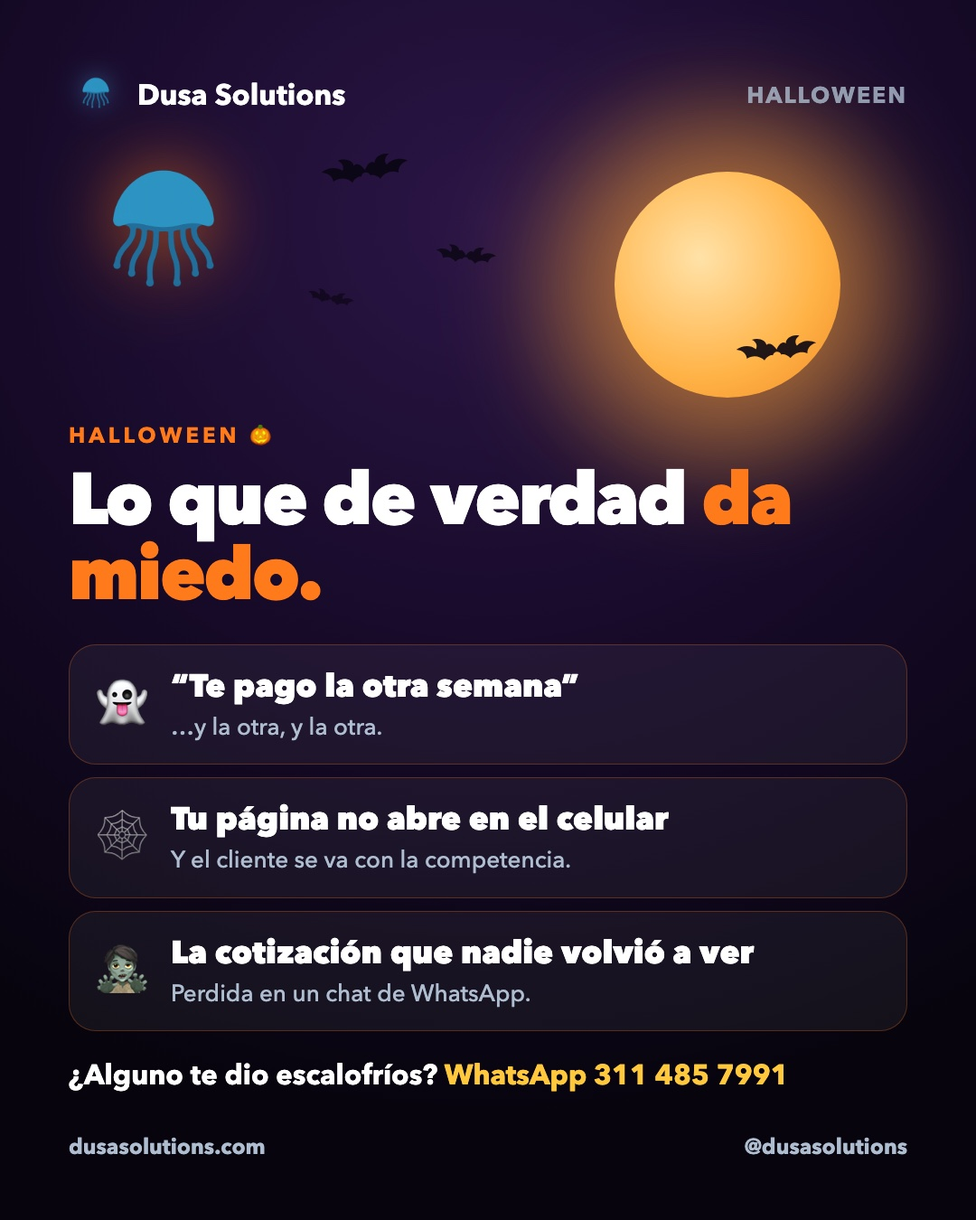
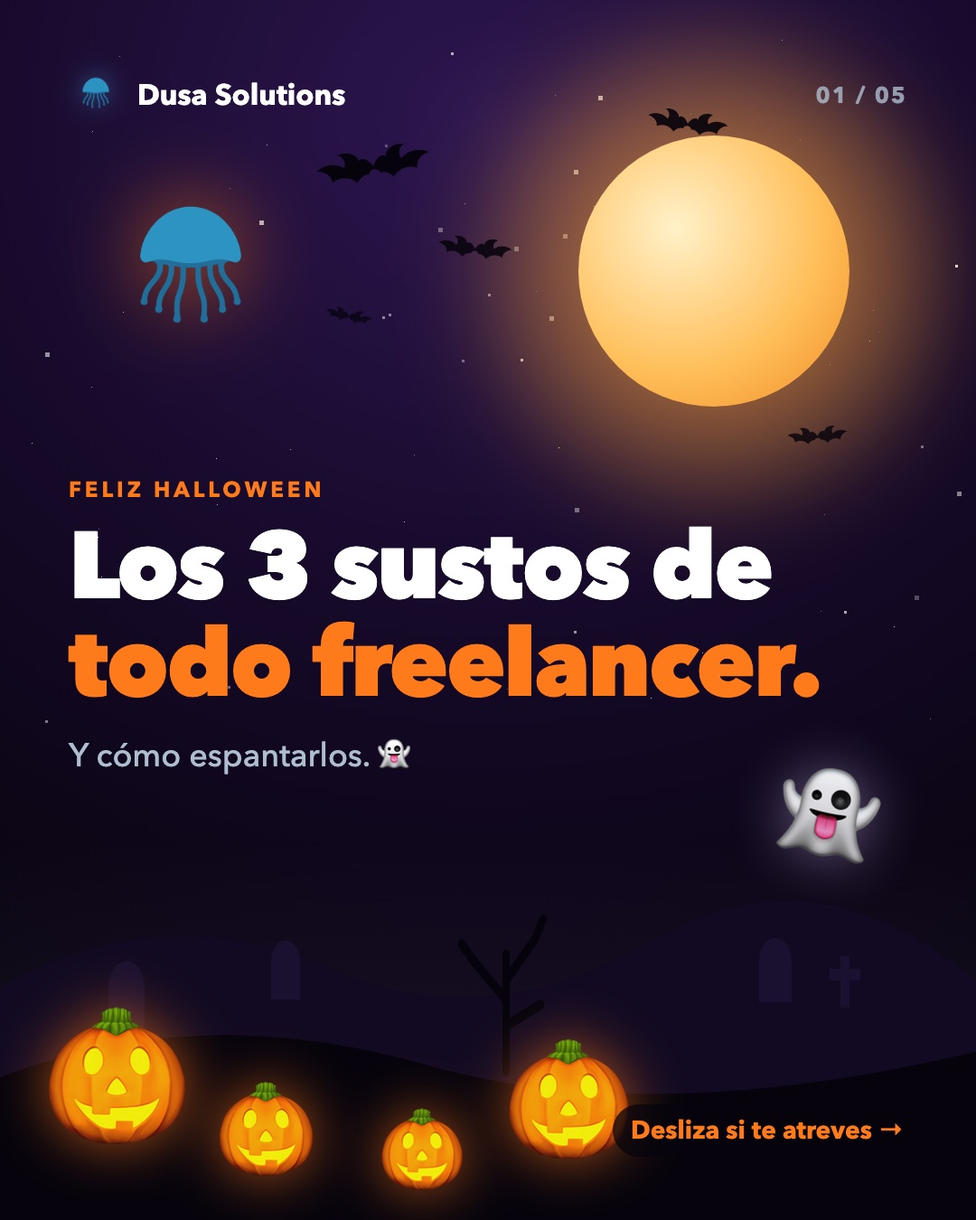
panel: Halloween ahora es carrusel de 5 (los 3 sustos de todo freelancer)

diff --git a/index.html b/index.html
@@ -250,7 +250,7 @@ footer{margin-top:28px;text-align:center;font-size:12px;color:var(--faint)}
 <div class="toast" id="toast" role="status" aria-live="polite"></div>
 
 <script>
-const APP = {"posts": [{"id": "anuncio", "group": "pausa", "date": null, "title": "Algo cambió en Dusa (anuncio)", "pillar": "Marca", "status": "listo", "caption": "Algo cambió en Dusa. 🔵\n\nNacimos el 13 de abril de 2025 construyendo apps para otros negocios, y nos encanta. Pero siempre tuvimos ideas propias… así que empezamos a construirlas.\n\nYa en el mundo:\n🚻 BathMap — el mapa de baños que le faltaba a México (bathmap.online)\n🧩 Blokku — nuestro juego de puzzle, ya en Google Play\n\nMuy pronto:\n🧾 Fakturo — cotiza, factura y cobra\n💸 TuLana — tu lana, organizada sola\n💪 Coachly — tu coach de entrenamiento con IA\n\nDesde hoy Dusa es un estudio de apps hechas para México. Hacemos las nuestras… y seguimos haciendo la tuya.\n\n¿Tienes una idea? Escríbenos por WhatsApp 👉 311 485 7991\n\nSíguenos para ver cómo las construimos. 🪼\n\n#HechoEnMéxico #Apps #Startups #DesarrolloDeApps #Guadalajara #GDL #BuildInPublic", "note": "Publícalo el día que Blokku aparezca en Google Play. Ese mismo día: bio nueva (PERFIL/BIO.md), portada de FB y archiva los posts viejos de agencia.", "slides": [{"full": "img/anuncio/1.jpg?v=8a9ebbe0", "thumb": "img/anuncio/t1.jpg?v=bb9941f2"}, {"full": "img/anuncio/2.jpg?v=7ba1bb19", "thumb": "img/anuncio/t2.jpg?v=8ef2c3f8"}, {"full": "img/anuncio/3.jpg?v=8657e8e2", "thumb": "img/anuncio/t3.jpg?v=9787a160"}, {"full": "img/anuncio/4.jpg?v=aaf8ee6f", "thumb": "img/anuncio/t4.jpg?v=48d3c8ba"}, {"full": "img/anuncio/5.jpg?v=892c2be6", "thumb": "img/anuncio/t5.jpg?v=96ed7650"}, {"full": "img/anuncio/6.jpg?v=250e0fbd", "thumb": "img/anuncio/t6.jpg?v=fd3e6b2f"}], "short": "Original", "when": "El día que Blokku salga en Google Play"}, {"id": "o1", "group": "oct", "date": "2026-10-02", "title": "BathMap: cómo usarlo en 3 pasos", "pillar": "Producto", "status": "listo", "caption": "¿Urgencia? 🚻 Así encuentras un baño en segundos con BathMap:\n\n1⃣ Abre el mapa y filtra: gratis, $5 o menos, con papel o jabón\n2⃣ Revisa la ficha: precio, cómo llegar y reseñas\n3⃣ ¿Conoces uno que no está? Agrégalo y ayuda a otros\n\nEs gratis y funciona desde el navegador 👉 bathmap.online\n\nGuárdalo para cuando lo necesites 🔖 y compártelo con quien siempre anda buscando baño 😅\n\n#BathMap #HechoEnMéxico #Guadalajara #CDMX #Apps", "note": "", "slides": [{"full": "img/o1/1.jpg?v=019a394d", "thumb": "img/o1/t1.jpg?v=a35bcdc6"}, {"full": "img/o1/2.jpg?v=bb81c3a8", "thumb": "img/o1/t2.jpg?v=d3210e54"}, {"full": "img/o1/3.jpg?v=05d0eb66", "thumb": "img/o1/t3.jpg?v=1a595bf3"}, {"full": "img/o1/4.jpg?v=720c1bb7", "thumb": "img/o1/t4.jpg?v=74b3b049"}]}, {"id": "o2", "group": "oct", "date": "2026-10-05", "title": "Cómo cobrar sin perseguir a nadie", "pillar": "Útil", "status": "listo", "caption": "Freelancer: si alguna vez mandaste \"¿cómo vas con el pago? 🙏\"… esto es para ti.\n\n4 hábitos para cobrar sin perseguir a nadie:\n1⃣ Pide anticipo (30–50%) antes de empezar\n2⃣ Todo por escrito: qué incluye, cuánto y cuándo se paga\n3⃣ Pon fecha de pago y avisa un día antes\n4⃣ Haz fácil pagarte: transferencia, tarjeta o link\n\nGuárdalo 🔖 y compártelo con ese amigo freelancer que siempre anda cobrando.\n\nP.D. Estamos creando Fakturo justo para esto. Muy pronto 🧾\n\n#Freelancer #Emprendedores #PyMEsMexico #Finanzas #Guadalajara", "note": "", "slides": [{"full": "img/o2/1.jpg?v=0dbce985", "thumb": "img/o2/t1.jpg?v=5e15197c"}, {"full": "img/o2/2.jpg?v=99d81dd8", "thumb": "img/o2/t2.jpg?v=eab1806f"}, {"full": "img/o2/3.jpg?v=47a7e26a", "thumb": "img/o2/t3.jpg?v=95d46f70"}, {"full": "img/o2/4.jpg?v=a1115e14", "thumb": "img/o2/t4.jpg?v=ec0dc45c"}, {"full": "img/o2/5.jpg?v=185dce34", "thumb": "img/o2/t5.jpg?v=b39daacc"}]}, {"id": "o3", "group": "oct", "date": "2026-10-07", "title": "Muy pronto: Fakturo", "pillar": "Producto", "status": "listo", "caption": "Muy pronto: Fakturo 🧾\n\nLa app que estamos construyendo para freelancers y pequeños negocios en México:\n✅ Cotiza y factura desde tu cel\n✅ Cobra por WhatsApp en un toque\n✅ PDFs con tu logo y tus colores\n✅ Ve cuánto cobraste, cuánto te deben y en qué gastas\n\n¿Quieres ser de los primeros en usarla? Mándanos la palabra FAKTURO por DM o por WhatsApp (311 485 7991) y te avisamos primero 👀\n\n#Fakturo #Freelancer #PyMEsMexico #Facturación #HechoEnMéxico", "note": "Pide que escriban FAKTURO: anota quién lo pide, es tu lista de espera.", "slides": [{"full": "img/o3/1.jpg?v=d94081e1", "thumb": "img/o3/t1.jpg?v=befe4843"}, {"full": "img/o3/2.jpg?v=aca05b66", "thumb": "img/o3/t2.jpg?v=941ab06f"}, {"full": "img/o3/3.jpg?v=c7ec0811", "thumb": "img/o3/t3.jpg?v=33bf565f"}, {"full": "img/o3/4.jpg?v=9410064a", "thumb": "img/o3/t4.jpg?v=342eff9e"}]}, {"id": "o4", "group": "oct", "date": "2026-10-09", "title": "Qué debe llevar una cotización profesional", "pillar": "Útil", "status": "listo", "caption": "Tu cotización dice mucho de ti antes de que empieces a trabajar 📄\n\nChecklist de una cotización profesional:\n✓ Tus datos y los de tu cliente\n✓ Qué incluye… y qué NO incluye\n✓ Precio con IVA desglosado\n✓ Tiempos de entrega\n✓ Forma y fechas de pago\n✓ Vigencia (ej. 15 días)\n\nCon esto te ahorras malentendidos, cambios infinitos y pagos atrasados.\n\nGuárdala 🔖 para tu próxima cotización.\n\n#Freelancer #Emprendedores #PyMEsMexico #Negocios #Guadalajara", "note": "", "slides": [{"full": "img/o4/1.jpg?v=86f1bd83", "thumb": "img/o4/t1.jpg?v=dff5a564"}]}, {"id": "o5", "group": "oct", "date": "2026-10-12", "title": "Lo que construimos para nosotros, lo construimos para ti", "pillar": "Estudio", "status": "listo", "caption": "Hacemos nuestras propias apps (BathMap, Blokku y las que vienen)… y también hacemos la tuya 🪼\n\nAsí trabajamos:\n1⃣ Platicamos 15 minutos, gratis\n2⃣ Te mandamos una propuesta por escrito: qué, cuánto y cuándo\n3⃣ Cada semana ves avances\n4⃣ El código es tuyo, siempre\n\n¿Tienes una idea dando vueltas? Escríbenos por WhatsApp 👉 311 485 7991\n\n#DesarrolloDeApps #DesarrolloWeb #Emprendedores #Guadalajara #HechoEnMéxico", "note": "", "slides": [{"full": "img/o5/1.jpg?v=4d8263ba", "thumb": "img/o5/t1.jpg?v=0d181015"}]}, {"id": "o6", "group": "oct", "date": "2026-10-14", "title": "Muy pronto: TuLana", "pillar": "Producto", "status": "listo", "caption": "Muy pronto: TuLana 💸 Tu lana, organizada sola.\n\n✅ Detecta cada cargo leyendo las notificaciones de tu banco\n✅ Sin login y sin dar tu clave: todo se queda en tu cel\n✅ ¿Pagaste en efectivo? Escríbelo como hablas: \"350 tacos con el jefe\" y listo\n\nSabes en qué se te va la quincena sin anotar nada.\n\nLlega primero a Android. Síguenos para enterarte del lanzamiento 🔔\n\n#TuLana #FinanzasPersonales #Ahorro #Quincena #HechoEnMéxico", "note": "", "slides": [{"full": "img/o6/1.jpg?v=efe859bd", "thumb": "img/o6/t1.jpg?v=a278c8f7"}, {"full": "img/o6/2.jpg?v=39ededd9", "thumb": "img/o6/t2.jpg?v=39d37c4b"}, {"full": "img/o6/3.jpg?v=c1a8f348", "thumb": "img/o6/t3.jpg?v=4bfb4633"}]}, {"id": "o7", "group": "oct", "date": "2026-10-16", "title": "Separa tu lana personal de la del negocio", "pillar": "Útil", "status": "listo", "caption": "¿Cobras y todo cae en la misma cuenta que usas para el súper? 😬\n\n3 pasos para separar tu lana de la del negocio:\n1⃣ Dos cuentas: una del negocio y otra personal\n2⃣ Págate un \"sueldo\" fijo cada quincena\n3⃣ Aparta un porcentaje de cada cobro para impuestos (tu contador te dice cuánto)\n\nParece poco, pero cambia todo: sabes cuánto ganas de verdad.\n\nGuárdalo 🔖 y empieza este mes.\n\n#Freelancer #FinanzasPersonales #Emprendedores #PyMEsMexico #Quincena", "note": "", "slides": [{"full": "img/o7/1.jpg?v=8f5414f1", "thumb": "img/o7/t1.jpg?v=cb87b66e"}, {"full": "img/o7/2.jpg?v=f77c85a3", "thumb": "img/o7/t2.jpg?v=6def560e"}, {"full": "img/o7/3.jpg?v=e5c42466", "thumb": "img/o7/t3.jpg?v=04aea40a"}, {"full": "img/o7/4.jpg?v=ac885774", "thumb": "img/o7/t4.jpg?v=a558ed71"}]}, {"id": "o8", "group": "oct", "date": "2026-10-19", "title": "BathMap nos cuesta ~$0 al mes", "pillar": "Detrás de cámaras", "status": "listo", "caption": "BathMap es gratis para todos… y a nosotros nos cuesta ~$0 al mes en servidores 🤯\n\n¿Cómo?\n⚡ Cloudflare Workers: corre cerca de cada usuario y su plan gratis nos alcanza\n🗺 OpenStreetMap: mapas y datos abiertos, sin licencias caras\n🐘 Neon (Postgres): base de datos en plan gratis\n\nLa lección: una buena idea no necesita un presupuesto enorme, necesita las decisiones correctas.\n\n¿Tienes una idea y crees que es muy cara de hacer? Platiquemos 👉 311 485 7991\n\n#DetrásDeCámaras #BuildInPublic #Startups #Tecnología #HechoEnMéxico", "note": "", "slides": [{"full": "img/o8/1.jpg?v=ce18896e", "thumb": "img/o8/t1.jpg?v=f93bb3d4"}, {"full": "img/o8/2.jpg?v=c8082569", "thumb": "img/o8/t2.jpg?v=9667f7a9"}, {"full": "img/o8/3.jpg?v=a62a23c1", "thumb": "img/o8/t3.jpg?v=eb95b9bd"}, {"full": "img/o8/4.jpg?v=6158758d", "thumb": "img/o8/t4.jpg?v=50aa61dd"}]}, {"id": "o9", "group": "oct", "date": "2026-10-21", "title": "Muy pronto: Coachly", "pillar": "Producto", "status": "listo", "caption": "Muy pronto: Coachly 💪 Tu coach de entrenamiento con IA.\n\n✅ Rutinas para cada nivel: fuerza, cardio, HIIT, yoga\n✅ Cada ejercicio explicado paso a paso\n✅ Tu progreso: rachas, récords y medidas\n\nPara que entrenes con un plan, no a ciegas.\n\nSíguenos para enterarte del lanzamiento 🔔\n\n#Coachly #Fitness #Entrenamiento #Gym #HechoEnMéxico", "note": "", "slides": [{"full": "img/o9/1.jpg?v=a8edcb52", "thumb": "img/o9/t1.jpg?v=dcbd2355"}, {"full": "img/o9/2.jpg?v=8fbee568", "thumb": "img/o9/t2.jpg?v=bb4155da"}, {"full": "img/o9/3.jpg?v=85665c19", "thumb": "img/o9/t3.jpg?v=d3c58796"}]}, {"id": "o10", "group": "oct", "date": "2026-10-23", "title": "¿Tu negocio necesita app o le basta una web?", "pillar": "Útil", "status": "listo", "caption": "¿Tu negocio necesita una app… o le basta una web? 🤔\n\nTe basta una WEB si:\n✓ Quieres que te encuentren en Google\n✓ Muestras tu catálogo o servicios\n✓ Recibes pedidos o citas por mensaje\n\nNecesitas una APP si:\n✓ Tus clientes regresan seguido\n✓ Necesitas avisarles con notificaciones\n✓ Usas funciones del cel: cámara, ubicación, pagos\n\n¿Sigues con la duda? Te decimos qué te conviene, gratis, en 15 minutos 👉 WhatsApp 311 485 7991\n\n#DesarrolloWeb #DesarrolloDeApps #PyMEsMexico #Emprendedores #Guadalajara", "note": "", "slides": [{"full": "img/o10/1.jpg?v=3a7618c1", "thumb": "img/o10/t1.jpg?v=ce37d012"}, {"full": "img/o10/2.jpg?v=acc26dc5", "thumb": "img/o10/t2.jpg?v=d0c05549"}, {"full": "img/o10/3.jpg?v=5e8995d0", "thumb": "img/o10/t3.jpg?v=799792db"}, {"full": "img/o10/4.jpg?v=a1c63ee0", "thumb": "img/o10/t4.jpg?v=cd7e8762"}]}, {"id": "o11", "group": "oct", "date": "2026-10-31", "title": "Halloween: lo que de verdad da miedo", "pillar": "Marca", "status": "listo", "caption": "Feliz Halloween 🎃👻\n\nEste año no nos asustan los fantasmas. Lo que de verdad da miedo:\n👻 El cliente que dice \"te pago la otra semana\"\n🕸 Tu página que no abre en el celular\n🧟 La cotización que mandaste por WhatsApp y nadie volvió a ver\n\nSi alguno te dio escalofríos, escríbenos y lo resolvemos 👉 WhatsApp 311 485 7991\n\n#Halloween #Freelancer #Emprendedores #PyMEsMexico #Guadalajara", "note": "", "slides": [{"full": "img/o11/1.jpg?v=7326663c", "thumb": "img/o11/t1.jpg?v=259f81df"}]}, {"id": "o12", "group": "oct", "date": "2026-11-02", "title": "Día de Muertos: ideas que no deben morir", "pillar": "Marca", "status": "listo", "caption": "Este Día de Muertos recordamos a los que se fueron… 🕯🌼\n\n…y también a todas esas ideas que se quedaron en el cajón: la app que nunca se hizo, el negocio que nunca abrió su página, el \"algún día lo hago\".\n\nQue la tuya no sea una. Escríbenos y la platicamos 👉 311 485 7991\n\n#DíaDeMuertos #HechoEnMéxico #Emprendedores #Ideas #Guadalajara", "note": "", "slides": [{"full": "img/o12/1.jpg?v=9a7d14e7", "thumb": "img/o12/t1.jpg?v=11324db6"}]}, {"id": "o13", "group": "pausa", "date": null, "title": "Blokku ya está en Google Play", "pillar": "Producto", "status": "listo", "caption": "¡Blokku ya está en Google Play! 🧩\n\nNuestro primer juego: un puzzle de bloques para despejar la mente. Gratis, funciona sin conexión y está hecho aquí en México por el equipo de Dusa.\n\nDescárgalo: busca \"Blokku\" en Google Play o entra a blokku.online 👉\n\nSi te gusta, déjanos tu reseña ⭐ — nos ayuda muchísimo.\n\n#Blokku #JuegosMóviles #Puzzle #HechoEnMéxico #IndieDev #Android", "note": "Súbelo solo cuando Blokku ya esté publicado en Google Play (en el siguiente hueco libre después del anuncio).", "slides": [{"full": "img/o13/1.jpg?v=594f89e4", "thumb": "img/o13/t1.jpg?v=bc082934"}]}, {"id": "o14", "group": "pausa", "date": null, "title": "Así fue lanzar Blokku en Google Play", "pillar": "Detrás de cámaras", "status": "listo", "caption": "Así fue lanzar nuestra primera app en Google Play 🧩\n\n📅 14 días de prueba cerrada (Google lo pide a las cuentas nuevas)\n👥 24 testers en México, Argentina, Bolivia y Ecuador — nos pedían 12\n✅ 3 días para que aprobaran la publicación\n\nLa lección: programar es la mitad. La otra mitad es probar, pulir y cumplir requisitos.\n\nGracias a los 24 que probaron Blokku 💙 ¿Quieres probar nuestra próxima app antes que nadie? Escríbenos y te apuntamos.\n\n#DetrásDeCámaras #IndieDev #GooglePlay #HechoEnMéxico #BuildInPublic", "note": "Después del 13, cuando Blokku ya esté en Play.", "slides": [{"full": "img/o14/1.jpg?v=300cabd6", "thumb": "img/o14/t1.jpg?v=7c2092ee"}, {"full": "img/o14/2.jpg?v=4dda951b", "thumb": "img/o14/t2.jpg?v=7ce53d66"}, {"full": "img/o14/3.jpg?v=41452d17", "thumb": "img/o14/t3.jpg?v=0e2f7a5c"}, {"full": "img/o14/4.jpg?v=1b8a00c6", "thumb": "img/o14/t4.jpg?v=312cff1c"}, {"full": "img/o14/5.jpg?v=17ece00b", "thumb": "img/o14/t5.jpg?v=46d160f7"}]}], "h1": "Octubre <span>2026</span>", "free": ["2026-10-26", "2026-10-28", "2026-10-30"], "sub": "Lunes, miércoles y viernes a las 7–8 pm", "upd": "Actualizado el 01/10/2026 · estudio de apps hechas para México"};
+const APP = {"posts": [{"id": "anuncio", "group": "pausa", "date": null, "title": "Algo cambió en Dusa (anuncio)", "pillar": "Marca", "status": "listo", "caption": "Algo cambió en Dusa. 🔵\n\nNacimos el 13 de abril de 2025 construyendo apps para otros negocios, y nos encanta. Pero siempre tuvimos ideas propias… así que empezamos a construirlas.\n\nYa en el mundo:\n🚻 BathMap — el mapa de baños que le faltaba a México (bathmap.online)\n🧩 Blokku — nuestro juego de puzzle, ya en Google Play\n\nMuy pronto:\n🧾 Fakturo — cotiza, factura y cobra\n💸 TuLana — tu lana, organizada sola\n💪 Coachly — tu coach de entrenamiento con IA\n\nDesde hoy Dusa es un estudio de apps hechas para México. Hacemos las nuestras… y seguimos haciendo la tuya.\n\n¿Tienes una idea? Escríbenos por WhatsApp 👉 311 485 7991\n\nSíguenos para ver cómo las construimos. 🪼\n\n#HechoEnMéxico #Apps #Startups #DesarrolloDeApps #Guadalajara #GDL #BuildInPublic", "note": "Publícalo el día que Blokku aparezca en Google Play. Ese mismo día: bio nueva (PERFIL/BIO.md), portada de FB y archiva los posts viejos de agencia.", "slides": [{"full": "img/anuncio/1.jpg?v=8a9ebbe0", "thumb": "img/anuncio/t1.jpg?v=bb9941f2"}, {"full": "img/anuncio/2.jpg?v=7ba1bb19", "thumb": "img/anuncio/t2.jpg?v=8ef2c3f8"}, {"full": "img/anuncio/3.jpg?v=8657e8e2", "thumb": "img/anuncio/t3.jpg?v=9787a160"}, {"full": "img/anuncio/4.jpg?v=aaf8ee6f", "thumb": "img/anuncio/t4.jpg?v=48d3c8ba"}, {"full": "img/anuncio/5.jpg?v=892c2be6", "thumb": "img/anuncio/t5.jpg?v=96ed7650"}, {"full": "img/anuncio/6.jpg?v=250e0fbd", "thumb": "img/anuncio/t6.jpg?v=fd3e6b2f"}], "short": "Original", "when": "El día que Blokku salga en Google Play"}, {"id": "o1", "group": "oct", "date": "2026-10-02", "title": "BathMap: cómo usarlo en 3 pasos", "pillar": "Producto", "status": "listo", "caption": "¿Urgencia? 🚻 Así encuentras un baño en segundos con BathMap:\n\n1⃣ Abre el mapa y filtra: gratis, $5 o menos, con papel o jabón\n2⃣ Revisa la ficha: precio, cómo llegar y reseñas\n3⃣ ¿Conoces uno que no está? Agrégalo y ayuda a otros\n\nEs gratis y funciona desde el navegador 👉 bathmap.online\n\nGuárdalo para cuando lo necesites 🔖 y compártelo con quien siempre anda buscando baño 😅\n\n#BathMap #HechoEnMéxico #Guadalajara #CDMX #Apps", "note": "", "slides": [{"full": "img/o1/1.jpg?v=019a394d", "thumb": "img/o1/t1.jpg?v=a35bcdc6"}, {"full": "img/o1/2.jpg?v=bb81c3a8", "thumb": "img/o1/t2.jpg?v=d3210e54"}, {"full": "img/o1/3.jpg?v=05d0eb66", "thumb": "img/o1/t3.jpg?v=1a595bf3"}, {"full": "img/o1/4.jpg?v=720c1bb7", "thumb": "img/o1/t4.jpg?v=74b3b049"}]}, {"id": "o2", "group": "oct", "date": "2026-10-05", "title": "Cómo cobrar sin perseguir a nadie", "pillar": "Útil", "status": "listo", "caption": "Freelancer: si alguna vez mandaste \"¿cómo vas con el pago? 🙏\"… esto es para ti.\n\n4 hábitos para cobrar sin perseguir a nadie:\n1⃣ Pide anticipo (30–50%) antes de empezar\n2⃣ Todo por escrito: qué incluye, cuánto y cuándo se paga\n3⃣ Pon fecha de pago y avisa un día antes\n4⃣ Haz fácil pagarte: transferencia, tarjeta o link\n\nGuárdalo 🔖 y compártelo con ese amigo freelancer que siempre anda cobrando.\n\nP.D. Estamos creando Fakturo justo para esto. Muy pronto 🧾\n\n#Freelancer #Emprendedores #PyMEsMexico #Finanzas #Guadalajara", "note": "", "slides": [{"full": "img/o2/1.jpg?v=0dbce985", "thumb": "img/o2/t1.jpg?v=5e15197c"}, {"full": "img/o2/2.jpg?v=99d81dd8", "thumb": "img/o2/t2.jpg?v=eab1806f"}, {"full": "img/o2/3.jpg?v=47a7e26a", "thumb": "img/o2/t3.jpg?v=95d46f70"}, {"full": "img/o2/4.jpg?v=a1115e14", "thumb": "img/o2/t4.jpg?v=ec0dc45c"}, {"full": "img/o2/5.jpg?v=185dce34", "thumb": "img/o2/t5.jpg?v=b39daacc"}]}, {"id": "o3", "group": "oct", "date": "2026-10-07", "title": "Muy pronto: Fakturo", "pillar": "Producto", "status": "listo", "caption": "Muy pronto: Fakturo 🧾\n\nLa app que estamos construyendo para freelancers y pequeños negocios en México:\n✅ Cotiza y factura desde tu cel\n✅ Cobra por WhatsApp en un toque\n✅ PDFs con tu logo y tus colores\n✅ Ve cuánto cobraste, cuánto te deben y en qué gastas\n\n¿Quieres ser de los primeros en usarla? Mándanos la palabra FAKTURO por DM o por WhatsApp (311 485 7991) y te avisamos primero 👀\n\n#Fakturo #Freelancer #PyMEsMexico #Facturación #HechoEnMéxico", "note": "Pide que escriban FAKTURO: anota quién lo pide, es tu lista de espera.", "slides": [{"full": "img/o3/1.jpg?v=d94081e1", "thumb": "img/o3/t1.jpg?v=befe4843"}, {"full": "img/o3/2.jpg?v=aca05b66", "thumb": "img/o3/t2.jpg?v=941ab06f"}, {"full": "img/o3/3.jpg?v=c7ec0811", "thumb": "img/o3/t3.jpg?v=33bf565f"}, {"full": "img/o3/4.jpg?v=9410064a", "thumb": "img/o3/t4.jpg?v=342eff9e"}]}, {"id": "o4", "group": "oct", "date": "2026-10-09", "title": "Qué debe llevar una cotización profesional", "pillar": "Útil", "status": "listo", "caption": "Tu cotización dice mucho de ti antes de que empieces a trabajar 📄\n\nChecklist de una cotización profesional:\n✓ Tus datos y los de tu cliente\n✓ Qué incluye… y qué NO incluye\n✓ Precio con IVA desglosado\n✓ Tiempos de entrega\n✓ Forma y fechas de pago\n✓ Vigencia (ej. 15 días)\n\nCon esto te ahorras malentendidos, cambios infinitos y pagos atrasados.\n\nGuárdala 🔖 para tu próxima cotización.\n\n#Freelancer #Emprendedores #PyMEsMexico #Negocios #Guadalajara", "note": "", "slides": [{"full": "img/o4/1.jpg?v=86f1bd83", "thumb": "img/o4/t1.jpg?v=dff5a564"}]}, {"id": "o5", "group": "oct", "date": "2026-10-12", "title": "Lo que construimos para nosotros, lo construimos para ti", "pillar": "Estudio", "status": "listo", "caption": "Hacemos nuestras propias apps (BathMap, Blokku y las que vienen)… y también hacemos la tuya 🪼\n\nAsí trabajamos:\n1⃣ Platicamos 15 minutos, gratis\n2⃣ Te mandamos una propuesta por escrito: qué, cuánto y cuándo\n3⃣ Cada semana ves avances\n4⃣ El código es tuyo, siempre\n\n¿Tienes una idea dando vueltas? Escríbenos por WhatsApp 👉 311 485 7991\n\n#DesarrolloDeApps #DesarrolloWeb #Emprendedores #Guadalajara #HechoEnMéxico", "note": "", "slides": [{"full": "img/o5/1.jpg?v=4d8263ba", "thumb": "img/o5/t1.jpg?v=0d181015"}]}, {"id": "o6", "group": "oct", "date": "2026-10-14", "title": "Muy pronto: TuLana", "pillar": "Producto", "status": "listo", "caption": "Muy pronto: TuLana 💸 Tu lana, organizada sola.\n\n✅ Detecta cada cargo leyendo las notificaciones de tu banco\n✅ Sin login y sin dar tu clave: todo se queda en tu cel\n✅ ¿Pagaste en efectivo? Escríbelo como hablas: \"350 tacos con el jefe\" y listo\n\nSabes en qué se te va la quincena sin anotar nada.\n\nLlega primero a Android. Síguenos para enterarte del lanzamiento 🔔\n\n#TuLana #FinanzasPersonales #Ahorro #Quincena #HechoEnMéxico", "note": "", "slides": [{"full": "img/o6/1.jpg?v=efe859bd", "thumb": "img/o6/t1.jpg?v=a278c8f7"}, {"full": "img/o6/2.jpg?v=39ededd9", "thumb": "img/o6/t2.jpg?v=39d37c4b"}, {"full": "img/o6/3.jpg?v=c1a8f348", "thumb": "img/o6/t3.jpg?v=4bfb4633"}]}, {"id": "o7", "group": "oct", "date": "2026-10-16", "title": "Separa tu lana personal de la del negocio", "pillar": "Útil", "status": "listo", "caption": "¿Cobras y todo cae en la misma cuenta que usas para el súper? 😬\n\n3 pasos para separar tu lana de la del negocio:\n1⃣ Dos cuentas: una del negocio y otra personal\n2⃣ Págate un \"sueldo\" fijo cada quincena\n3⃣ Aparta un porcentaje de cada cobro para impuestos (tu contador te dice cuánto)\n\nParece poco, pero cambia todo: sabes cuánto ganas de verdad.\n\nGuárdalo 🔖 y empieza este mes.\n\n#Freelancer #FinanzasPersonales #Emprendedores #PyMEsMexico #Quincena", "note": "", "slides": [{"full": "img/o7/1.jpg?v=8f5414f1", "thumb": "img/o7/t1.jpg?v=cb87b66e"}, {"full": "img/o7/2.jpg?v=f77c85a3", "thumb": "img/o7/t2.jpg?v=6def560e"}, {"full": "img/o7/3.jpg?v=e5c42466", "thumb": "img/o7/t3.jpg?v=04aea40a"}, {"full": "img/o7/4.jpg?v=ac885774", "thumb": "img/o7/t4.jpg?v=a558ed71"}]}, {"id": "o8", "group": "oct", "date": "2026-10-19", "title": "BathMap nos cuesta ~$0 al mes", "pillar": "Detrás de cámaras", "status": "listo", "caption": "BathMap es gratis para todos… y a nosotros nos cuesta ~$0 al mes en servidores 🤯\n\n¿Cómo?\n⚡ Cloudflare Workers: corre cerca de cada usuario y su plan gratis nos alcanza\n🗺 OpenStreetMap: mapas y datos abiertos, sin licencias caras\n🐘 Neon (Postgres): base de datos en plan gratis\n\nLa lección: una buena idea no necesita un presupuesto enorme, necesita las decisiones correctas.\n\n¿Tienes una idea y crees que es muy cara de hacer? Platiquemos 👉 311 485 7991\n\n#DetrásDeCámaras #BuildInPublic #Startups #Tecnología #HechoEnMéxico", "note": "", "slides": [{"full": "img/o8/1.jpg?v=ce18896e", "thumb": "img/o8/t1.jpg?v=f93bb3d4"}, {"full": "img/o8/2.jpg?v=c8082569", "thumb": "img/o8/t2.jpg?v=9667f7a9"}, {"full": "img/o8/3.jpg?v=a62a23c1", "thumb": "img/o8/t3.jpg?v=eb95b9bd"}, {"full": "img/o8/4.jpg?v=6158758d", "thumb": "img/o8/t4.jpg?v=50aa61dd"}]}, {"id": "o9", "group": "oct", "date": "2026-10-21", "title": "Muy pronto: Coachly", "pillar": "Producto", "status": "listo", "caption": "Muy pronto: Coachly 💪 Tu coach de entrenamiento con IA.\n\n✅ Rutinas para cada nivel: fuerza, cardio, HIIT, yoga\n✅ Cada ejercicio explicado paso a paso\n✅ Tu progreso: rachas, récords y medidas\n\nPara que entrenes con un plan, no a ciegas.\n\nSíguenos para enterarte del lanzamiento 🔔\n\n#Coachly #Fitness #Entrenamiento #Gym #HechoEnMéxico", "note": "", "slides": [{"full": "img/o9/1.jpg?v=a8edcb52", "thumb": "img/o9/t1.jpg?v=dcbd2355"}, {"full": "img/o9/2.jpg?v=8fbee568", "thumb": "img/o9/t2.jpg?v=bb4155da"}, {"full": "img/o9/3.jpg?v=85665c19", "thumb": "img/o9/t3.jpg?v=d3c58796"}]}, {"id": "o10", "group": "oct", "date": "2026-10-23", "title": "¿Tu negocio necesita app o le basta una web?", "pillar": "Útil", "status": "listo", "caption": "¿Tu negocio necesita una app… o le basta una web? 🤔\n\nTe basta una WEB si:\n✓ Quieres que te encuentren en Google\n✓ Muestras tu catálogo o servicios\n✓ Recibes pedidos o citas por mensaje\n\nNecesitas una APP si:\n✓ Tus clientes regresan seguido\n✓ Necesitas avisarles con notificaciones\n✓ Usas funciones del cel: cámara, ubicación, pagos\n\n¿Sigues con la duda? Te decimos qué te conviene, gratis, en 15 minutos 👉 WhatsApp 311 485 7991\n\n#DesarrolloWeb #DesarrolloDeApps #PyMEsMexico #Emprendedores #Guadalajara", "note": "", "slides": [{"full": "img/o10/1.jpg?v=3a7618c1", "thumb": "img/o10/t1.jpg?v=ce37d012"}, {"full": "img/o10/2.jpg?v=acc26dc5", "thumb": "img/o10/t2.jpg?v=d0c05549"}, {"full": "img/o10/3.jpg?v=5e8995d0", "thumb": "img/o10/t3.jpg?v=799792db"}, {"full": "img/o10/4.jpg?v=a1c63ee0", "thumb": "img/o10/t4.jpg?v=cd7e8762"}]}, {"id": "o11", "group": "oct", "date": "2026-10-31", "title": "Halloween: los 3 sustos de todo freelancer", "pillar": "Marca", "status": "listo", "caption": "Feliz Halloween 🎃 Los 3 sustos de todo freelancer (y cómo espantarlos):\n\n👻 \"Te pago la otra semana\" → fecha límite desde la cotización, anticipo antes de empezar y tus datos de pago en la factura.\n\n🕸 Tu página no abre en el celular → ábrela hoy en tu teléfono, con datos. WhatsApp visible y precios claros.\n\n🧟 La cotización que nadie volvió a ver → en PDF, con vigencia, y seguimiento a los 3 días.\n\n¿Cuál te dio más miedo? Cuéntanos en los comentarios 👇\nY si alguno es tuyo, escríbenos 👉 WhatsApp 311 485 7991\n\n#Halloween #Freelancer #Emprendedores #PyMEsMexico #Guadalajara", "note": "", "slides": [{"full": "img/o11/1.jpg?v=faf9f67c", "thumb": "img/o11/t1.jpg?v=c56adeed"}, {"full": "img/o11/2.jpg?v=9618c42e", "thumb": "img/o11/t2.jpg?v=ba41bcef"}, {"full": "img/o11/3.jpg?v=ebb3b05b", "thumb": "img/o11/t3.jpg?v=e092637a"}, {"full": "img/o11/4.jpg?v=f8f50d9a", "thumb": "img/o11/t4.jpg?v=0a815dc1"}, {"full": "img/o11/5.jpg?v=e5845245", "thumb": "img/o11/t5.jpg?v=a07b0c3f"}]}, {"id": "o12", "group": "oct", "date": "2026-11-02", "title": "Día de Muertos: ideas que no deben morir", "pillar": "Marca", "status": "listo", "caption": "Este Día de Muertos recordamos a los que se fueron… 🕯🌼\n\n…y también a todas esas ideas que se quedaron en el cajón: la app que nunca se hizo, el negocio que nunca abrió su página, el \"algún día lo hago\".\n\nQue la tuya no sea una. Escríbenos y la platicamos 👉 311 485 7991\n\n#DíaDeMuertos #HechoEnMéxico #Emprendedores #Ideas #Guadalajara", "note": "", "slides": [{"full": "img/o12/1.jpg?v=9a7d14e7", "thumb": "img/o12/t1.jpg?v=11324db6"}]}, {"id": "o13", "group": "pausa", "date": null, "title": "Blokku ya está en Google Play", "pillar": "Producto", "status": "listo", "caption": "¡Blokku ya está en Google Play! 🧩\n\nNuestro primer juego: un puzzle de bloques para despejar la mente. Gratis, funciona sin conexión y está hecho aquí en México por el equipo de Dusa.\n\nDescárgalo: busca \"Blokku\" en Google Play o entra a blokku.online 👉\n\nSi te gusta, déjanos tu reseña ⭐ — nos ayuda muchísimo.\n\n#Blokku #JuegosMóviles #Puzzle #HechoEnMéxico #IndieDev #Android", "note": "Súbelo solo cuando Blokku ya esté publicado en Google Play (en el siguiente hueco libre después del anuncio).", "slides": [{"full": "img/o13/1.jpg?v=594f89e4", "thumb": "img/o13/t1.jpg?v=bc082934"}]}, {"id": "o14", "group": "pausa", "date": null, "title": "Así fue lanzar Blokku en Google Play", "pillar": "Detrás de cámaras", "status": "listo", "caption": "Así fue lanzar nuestra primera app en Google Play 🧩\n\n📅 14 días de prueba cerrada (Google lo pide a las cuentas nuevas)\n👥 24 testers en México, Argentina, Bolivia y Ecuador — nos pedían 12\n✅ 3 días para que aprobaran la publicación\n\nLa lección: programar es la mitad. La otra mitad es probar, pulir y cumplir requisitos.\n\nGracias a los 24 que probaron Blokku 💙 ¿Quieres probar nuestra próxima app antes que nadie? Escríbenos y te apuntamos.\n\n#DetrásDeCámaras #IndieDev #GooglePlay #HechoEnMéxico #BuildInPublic", "note": "Después del 13, cuando Blokku ya esté en Play.", "slides": [{"full": "img/o14/1.jpg?v=300cabd6", "thumb": "img/o14/t1.jpg?v=7c2092ee"}, {"full": "img/o14/2.jpg?v=4dda951b", "thumb": "img/o14/t2.jpg?v=7ce53d66"}, {"full": "img/o14/3.jpg?v=41452d17", "thumb": "img/o14/t3.jpg?v=0e2f7a5c"}, {"full": "img/o14/4.jpg?v=1b8a00c6", "thumb": "img/o14/t4.jpg?v=312cff1c"}, {"full": "img/o14/5.jpg?v=17ece00b", "thumb": "img/o14/t5.jpg?v=46d160f7"}]}], "h1": "Octubre <span>2026</span>", "free": ["2026-10-26", "2026-10-28", "2026-10-30"], "sub": "Lunes, miércoles y viernes a las 7–8 pm", "upd": "Actualizado el 01/10/2026 · estudio de apps hechas para México"};
 (() => {
 const $ = (s) => document.querySelector(s);
 const esc = (s) => String(s).replace(/[&<>"]/g, c => ({ '&': '&amp;', '<': '&lt;', '>': '&gt;', '"': '&quot;' }[c]));
